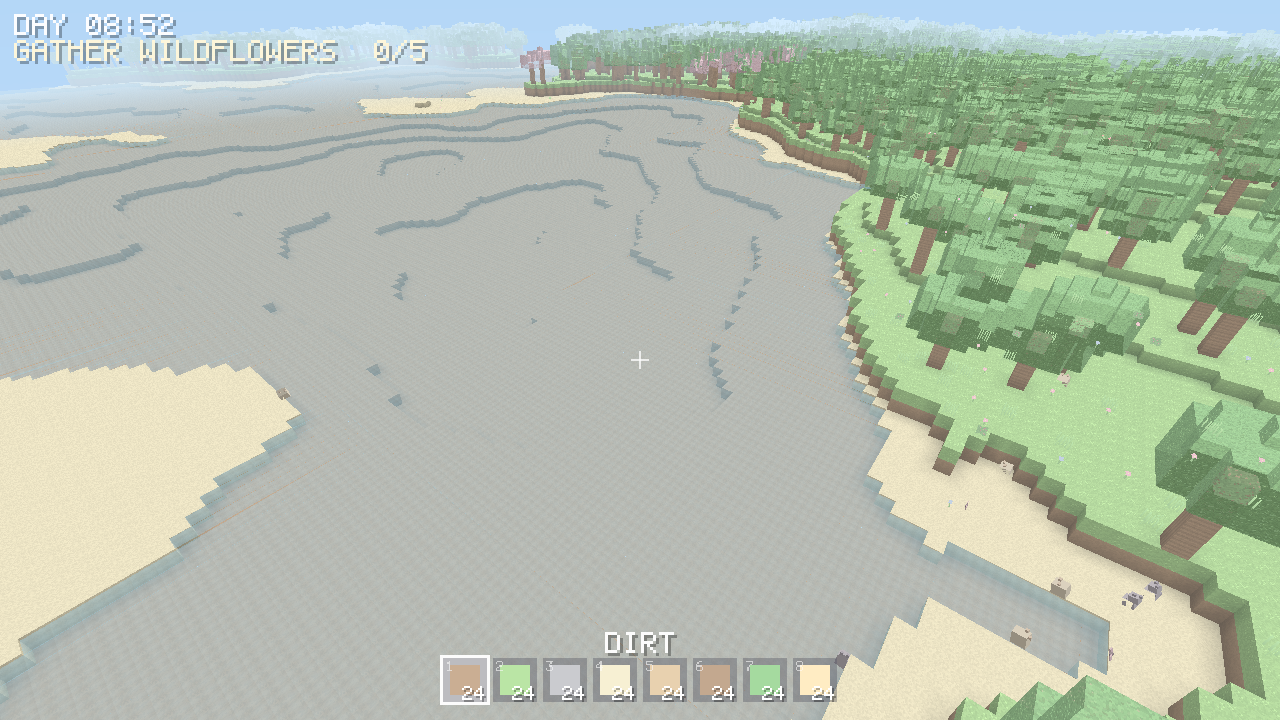
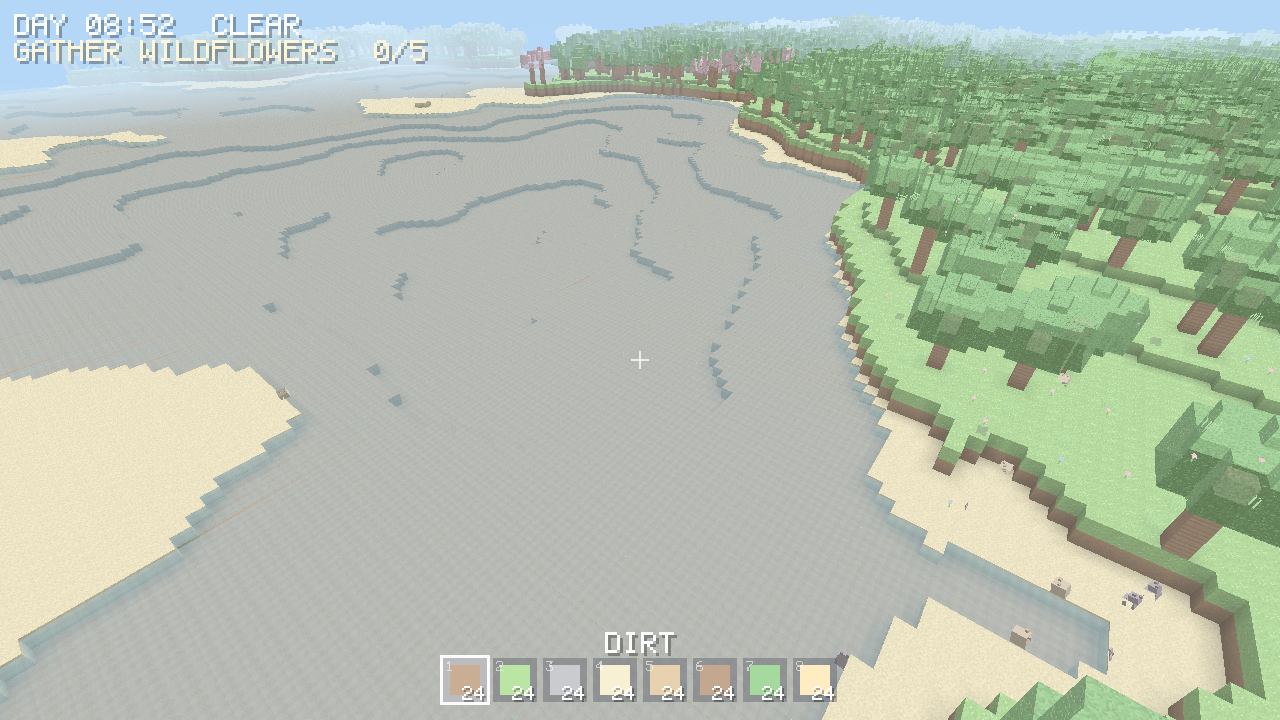
Stage 24: weather (rain + snow)
- New Weather state derived from time and biome: snowy peaks always snow,
  elsewhere mostly clear with occasional ~45s rain spells.
- Particle system gains weather emission: slow drifting snowflakes and quick
  rain streaks falling around the player.
- HUD shows the weather beside the clock (e.g. 'DAY 12:43 RAIN').
- Screenshot tool adds a rainy-day shot.

diff --git a/crates/game/src/lib.rs b/crates/game/src/lib.rs
@@ -31,6 +31,40 @@ pub use streaming::{ChunkManager, StreamConfig, StreamStats};
 use glam::Vec3;
 use pixelcraft_physics::{MovementInput, Player, SolidQuery};
 
+/// Current weather. Snowy peaks always snow; elsewhere it's mostly clear with
+/// occasional gentle rain.
+#[derive(Clone, Copy, PartialEq, Eq, Debug)]
+pub enum Weather {
+    Clear,
+    Rain,
+    Snow,
+}
+
+impl Weather {
+    pub fn label(self) -> &'static str {
+        match self {
+            Weather::Clear => "CLEAR",
+            Weather::Rain => "RAIN",
+            Weather::Snow => "SNOW",
+        }
+    }
+}
+
+/// Decide the weather for a moment in time at a biome. Rain comes in slow
+/// ~45-second spells; cold peaks always snow.
+fn weather_at(time: f32, biome: pixelcraft_worldgen::Biome) -> Weather {
+    if biome == pixelcraft_worldgen::Biome::SnowyPeaks {
+        return Weather::Snow;
+    }
+    let period = (time / 45.0).max(0.0) as u64;
+    // ~25% of spells are rainy.
+    if pixelcraft_worldgen::SplitMix64::new(period ^ 0xBEEF_CAFE).next_f32() < 0.25 {
+        Weather::Rain
+    } else {
+        Weather::Clear
+    }
+}
+
 /// A complete, render-agnostic game session: the streamed world, the cat, its
 /// inventory, ambient critters and the day/night environment. The renderer
 /// drives this each frame and reads back what it needs to draw.
@@ -42,6 +76,7 @@ pub struct Game {
     pub environment: Environment,
     pub quests: QuestLog,
     pub particles: particle::ParticleSystem,
+    pub weather: Weather,
     /// Active NPC dialogue (speaker, line), shown for a few seconds.
     pub active_dialogue: Option<(String, String)>,
     dialogue_timer: f32,
@@ -66,6 +101,7 @@ impl Game {
             environment: Environment::default(),
             quests: QuestLog::cosy_chain(),
             particles: particle::ParticleSystem::new(seed),
+            weather: Weather::Clear,
             active_dialogue: None,
             dialogue_timer: 0.0,
             time: 0.0,
@@ -140,12 +176,18 @@ impl Game {
             &self.manager,
             self.environment.daylight(),
         );
-        // Cherry-blossom petals drift down when standing in a cherry grove.
-        if self.manager.biome_at(
+        // Weather + cherry-blossom petals, by biome.
+        let biome = self.manager.biome_at(
             self.player.position.x.floor() as i32,
             self.player.position.z.floor() as i32,
-        ) == pixelcraft_worldgen::Biome::CherryGrove
-        {
+        );
+        self.weather = weather_at(self.time, biome);
+        match self.weather {
+            Weather::Snow => self.particles.emit_weather(self.player.position, true, dt),
+            Weather::Rain => self.particles.emit_weather(self.player.position, false, dt),
+            Weather::Clear => {}
+        }
+        if biome == pixelcraft_worldgen::Biome::CherryGrove {
             self.particles.emit_petals(self.player.position, dt);
         }
         self.particles.update(dt);

diff --git a/crates/game/src/bin/screenshot.rs b/crates/game/src/bin/screenshot.rs
@@ -83,6 +83,7 @@ fn main() {
         objective: quest.as_ref().map(|(t, _)| t.clone()),
         objective_progress: quest.as_ref().map(|(_, p)| *p),
         dialogue: None,
+        weather: Some(game.weather.label().to_string()),
     };
     renderer.update_hud(&hud);
     println!(
@@ -237,6 +238,7 @@ fn main() {
             objective: None,
             objective_progress: None,
             dialogue: Some((name, line)),
+            weather: None,
         };
         renderer.update_hud(&hud);
         let path = format!("{out_dir}/11_friend.png");
@@ -302,11 +304,39 @@ fn main() {
             objective: game.quests.hud().map(|(t, _)| t),
             objective_progress: game.quests.hud().map(|(_, p)| p),
             dialogue: None,
+            weather: None,
         };
         renderer.update_hud(&hud);
         let path = format!("{out_dir}/12_hero.png");
         renderer.capture(&camera, &env, &path);
         renderer.update_player_model(None);
+        println!("  wrote {path}");
+    }
+
+    // A rainy-day shot at eye level.
+    {
+        game.weather = pixelcraft_game::Weather::Rain;
+        for _ in 0..60 {
+            game.particles.emit_weather(ground, false, 0.03);
+            game.particles.update(0.03);
+        }
+        renderer.update_particles(&game.particles);
+        let eye = ground + Vec3::new(0.0, 1.5, 0.0);
+        let camera = Camera::new(eye, look_dir(0.6, -0.05), aspect);
+        let env = Environment { time_of_day: 0.28, day_length: 600.0 };
+        let quest = game.quests.hud();
+        let hud = pixelcraft_game::render::HudState {
+            inventory: &game.inventory,
+            registry: &game.manager.registry,
+            time_of_day: 0.28,
+            objective: quest.as_ref().map(|(t, _)| t.clone()),
+            objective_progress: quest.as_ref().map(|(_, p)| *p),
+            dialogue: None,
+            weather: Some("RAIN".to_string()),
+        };
+        renderer.update_hud(&hud);
+        let path = format!("{out_dir}/13_rain.png");
+        renderer.capture(&camera, &env, &path);
         println!("  wrote {path}");
     }
 

diff --git a/crates/game/src/particle.rs b/crates/game/src/particle.rs
@@ -69,6 +69,50 @@ impl ParticleSystem {
         }
     }
 
+    /// Emit weather precipitation around the player: drifting snow or quick
+    /// rain streaks falling from above.
+    pub fn emit_weather(&mut self, around: Vec3, snow: bool, dt: f32) {
+        let rate = if snow { 26.0 } else { 60.0 };
+        let expected = rate * dt;
+        let mut n = expected as i32;
+        if self.rng.next_f32() < expected.fract() {
+            n += 1;
+        }
+        for _ in 0..n {
+            if self.particles.len() >= self.max {
+                break;
+            }
+            let r = 22.0;
+            let pos = around
+                + Vec3::new(
+                    (self.rng.next_f32() - 0.5) * r,
+                    8.0 + self.rng.next_f32() * 8.0,
+                    (self.rng.next_f32() - 0.5) * r,
+                );
+            if snow {
+                self.particles.push(Particle {
+                    pos,
+                    vel: Vec3::new(0.0, -1.1 - self.rng.next_f32() * 0.5, 0.0),
+                    life: 0.0,
+                    max_life: 5.0 + self.rng.next_f32() * 2.0,
+                    size: 0.08,
+                    color: Color::rgb(245, 248, 255),
+                    flutter: 1.0 + self.rng.next_f32(),
+                });
+            } else {
+                self.particles.push(Particle {
+                    pos,
+                    vel: Vec3::new(0.0, -16.0 - self.rng.next_f32() * 4.0, 0.0),
+                    life: 0.0,
+                    max_life: 1.2,
+                    size: 0.05,
+                    color: Color::rgb(170, 190, 220),
+                    flutter: 0.0,
+                });
+            }
+        }
+    }
+
     /// A small debris burst (e.g. when a block is broken).
     pub fn burst(&mut self, at: Vec3, color: Color, count: u32) {
         for _ in 0..count {

diff --git a/crates/game/src/render/ui.rs b/crates/game/src/render/ui.rs
@@ -85,6 +85,8 @@ pub struct HudState<'a> {
     pub objective_progress: Option<(u32, u32)>,
     /// Active NPC dialogue (speaker, line).
     pub dialogue: Option<(String, String)>,
+    /// Short weather label (e.g. "RAIN").
+    pub weather: Option<String>,
 }
 
 /// Build the full HUD for the current frame.
@@ -110,7 +112,12 @@ pub fn build_hud(screen_w: u32, screen_h: u32, state: &HudState) -> Vec<UiVertex
     let mm = ((hours_f - hh as f32) * 60.0) as u32;
     let clock = format!("{hh:02}:{mm:02}");
     let tag = if (6..20).contains(&hh) { "DAY" } else { "NIGHT" };
-    b.text_shadow(14.0, 14.0, 3.0, &format!("{tag} {clock}"), [1.0, 1.0, 1.0, 0.95]);
+    let mut top = format!("{tag} {clock}");
+    if let Some(w) = &state.weather {
+        top.push_str("  ");
+        top.push_str(w);
+    }
+    b.text_shadow(14.0, 14.0, 3.0, &top, [1.0, 1.0, 1.0, 0.95]);
 
     // --- Objective banner ------------------------------------------------
     if let Some(obj) = &state.objective {
@@ -196,6 +203,7 @@ mod tests {
             objective: Some("COLLECT BERRIES".to_string()),
             objective_progress: Some((2, 5)),
             dialogue: Some(("MITTENS".to_string(), "HELLO THERE!".to_string())),
+            weather: Some("RAIN".to_string()),
         };
         let verts = build_hud(1280, 720, &state);
         assert!(!verts.is_empty());

diff --git a/crates/game/src/render/app.rs b/crates/game/src/render/app.rs
@@ -274,6 +274,7 @@ impl State {
                 .or_else(|| Some("ALL QUESTS DONE - ENJOY!".to_string())),
             objective_progress: quest.as_ref().map(|(_, p)| *p),
             dialogue: self.game.active_dialogue.clone(),
+            weather: Some(self.game.weather.label().to_string()),
         };
         self.renderer.update_hud(&hud);
 
